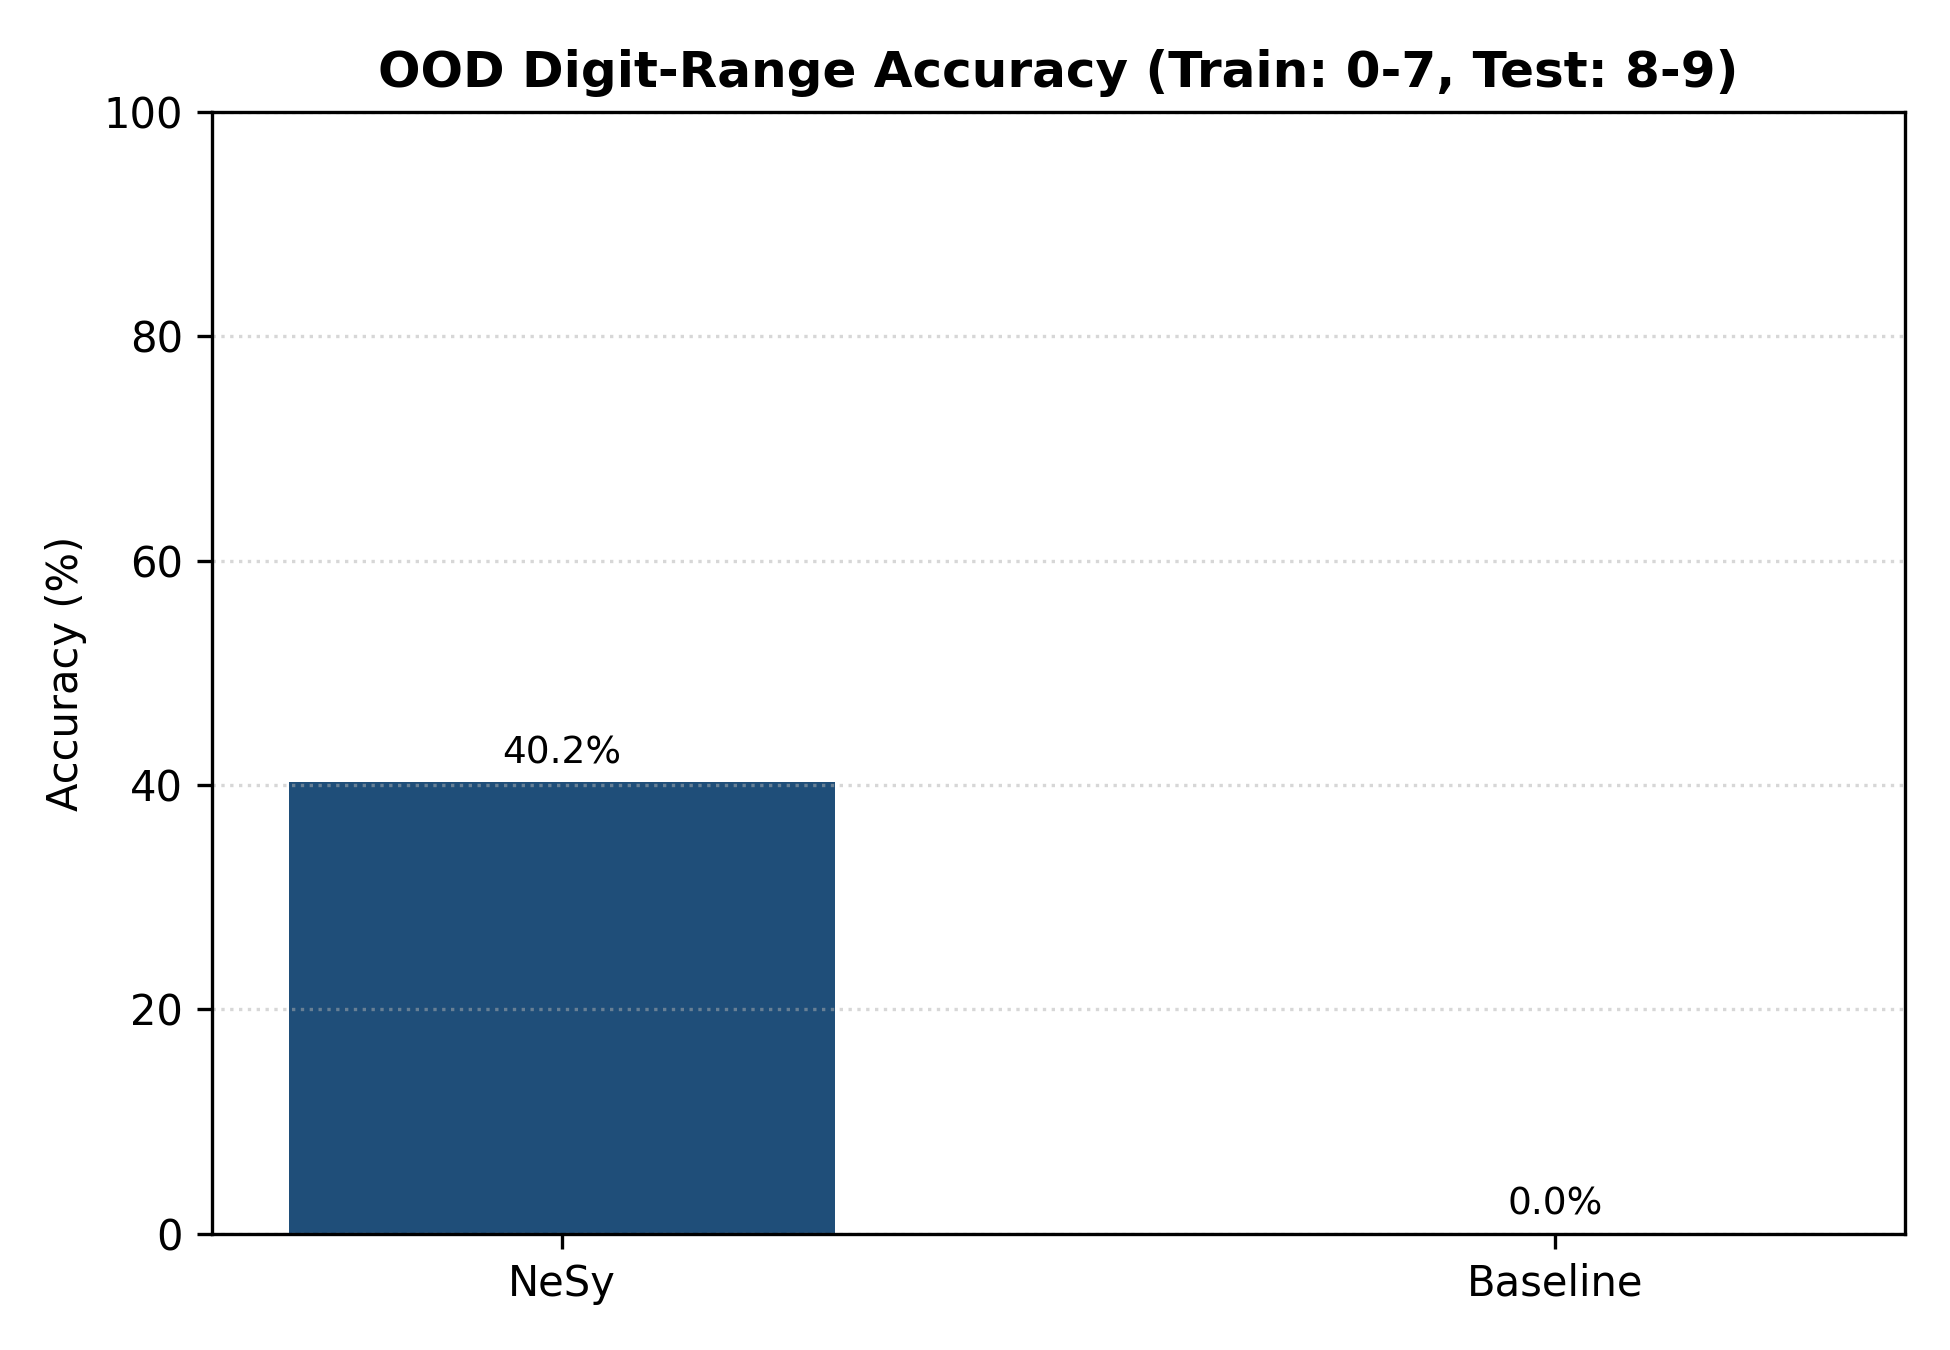
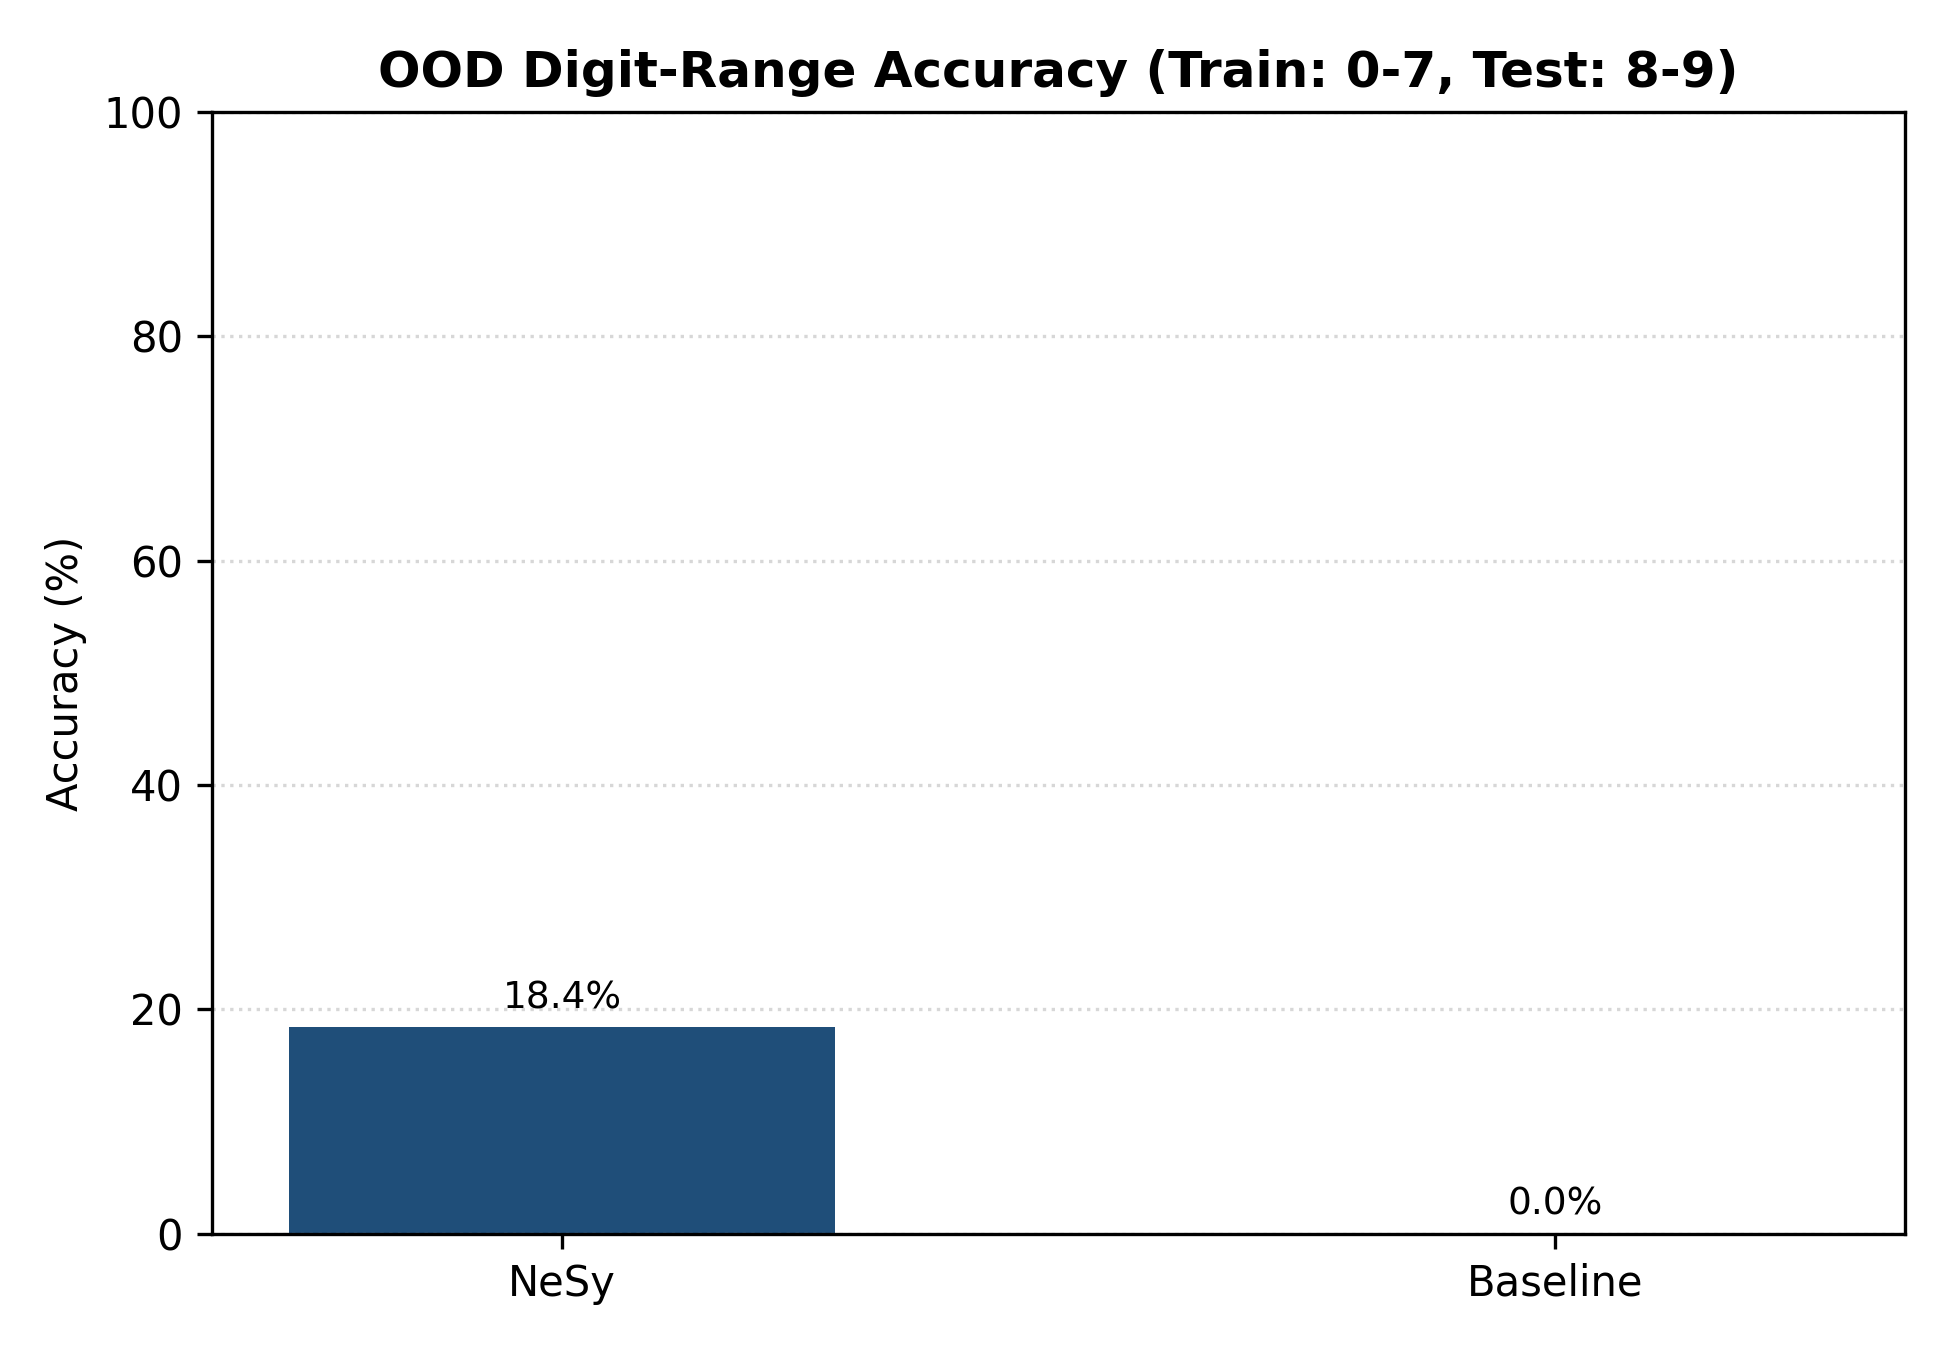
Document full run findings

Changed region(s): [[0.1231, 0.5289, 0.4308, 0.7778]]

diff --git a/FINDINGS.md b/FINDINGS.md
@@ -1,0 +1,46 @@
+# Findings from the MNIST Neuro-Symbolic Addition Project
+
+## Short abstract
+
+This project compares a neuro-symbolic digit-addition model against a dense end-to-end baseline on paired MNIST digits. The key idea is to keep the arithmetic rule fixed and learn only the perception step, then test how far that separation carries under standard evaluation, out-of-distribution digit ranges, and additive noise.
+
+## Experimental map
+
+1. Pre-train a small CNN to recognize single MNIST digits.
+2. Wrap that CNN in a symbolic sum layer that computes the distribution over sums from the two digit distributions.
+3. Train a dense baseline that predicts the sum directly from concatenated pixels.
+4. Evaluate both models on the standard split, on digit-range shift, and under Gaussian noise.
+
+## Full-run results
+
+These are the numbers from running `python nesy_addition.py` in this repository.
+
+| Experiment | Neuro-Symbolic | Baseline |
+| --- | ---: | ---: |
+| Standard test split | 98.05% | 72.80% |
+| OOD digit-range split | 18.40% | 0.00% |
+| Noise level 0.0 | 4.00% | 0.00% |
+| Noise level 0.3 | 2.55% | 0.00% |
+| Noise level 0.6 | 0.70% | 0.00% |
+| Noise level 0.9 | 0.20% | 0.00% |
+
+## What the results mean
+
+- The standard split shows that the neuro-symbolic path can solve the task cleanly when the digit recognizer is sufficiently trained.
+- The OOD split shows the baseline collapsing completely, which is consistent with a model that learns pixels-to-sum shortcuts rather than an arithmetic rule.
+- The noise experiment shows the bottleneck clearly: the symbolic layer is stable, but it cannot recover from a weak perception model.
+
+## Interpretation you can present to someone
+
+The strongest claim here is not that the neuro-symbolic system is magically immune to distribution shift. The defensible claim is narrower and better: once the perception module is good enough, the explicit sum rule gives a cleaner, more interpretable path than a pure neural baseline. The failure mode is equally useful, because it shows exactly where the system breaks when the input channel becomes unreliable.
+
+## Reproducibility
+
+- Main script: [nesy_addition.py](nesy_addition.py)
+- Quick smoke test: `python nesy_addition.py --quick`
+- Full run: `python nesy_addition.py`
+- Generated artifacts: `results/summary.json`, `results/ood_accuracy_chart.png`, `results/noise_robustness_chart.png`
+
+## Practical note
+
+The quick mode is useful for checking that the pipeline still works, but it is not the right run to cite in a paper or presentation. Use the full run if you want the most defensible results from this codebase.

diff --git a/README.md b/README.md
@@ -41,24 +41,31 @@ flowchart TD
 
 - [NeSy-Add.ipynb](NeSy-Add.ipynb): exploratory notebook with the original experiment.
 - [nesy_addition.py](nesy_addition.py): reproducible script version with CLI options.
+- [FINDINGS.md](FINDINGS.md): compact analysis of the real script outputs and what they mean.
 - [noise_robustness_chart.png](noise_robustness_chart.png): chart produced in the notebook.
 - [results/](results): output folder used by the script for generated figures and JSON summaries.
 - [data/](data): MNIST files downloaded locally. This folder is ignored by Git.
 
 ## Latest observed results
 
-The notebook in this workspace has already been executed. The current stored results are:
+The notebook in this workspace has already been executed, but the script in [nesy_addition.py](nesy_addition.py) is the canonical reproducible entry point. The current notebook snapshot and the full script run tell two slightly different stories, so both are documented here.
 
 | Experiment | Neuro-Symbolic | Baseline |
 | --- | ---: | ---: |
-| Standard test split | 96.95% | 79.10% |
-| OOD digit-range split | 29.80% | 0.00% |
-| Noise level 0.0 | 78.65% | 44.90% |
-| Noise level 0.3 | 75.05% | 42.05% |
-| Noise level 0.6 | 70.20% | 44.25% |
-| Noise level 0.9 | 64.25% | 41.05% |
+| Notebook snapshot: standard test split | 96.95% | 79.10% |
+| Notebook snapshot: OOD digit-range split | 29.80% | 0.00% |
+| Notebook snapshot: noise level 0.0 | 78.65% | 44.90% |
+| Notebook snapshot: noise level 0.3 | 75.05% | 42.05% |
+| Notebook snapshot: noise level 0.6 | 70.20% | 44.25% |
+| Notebook snapshot: noise level 0.9 | 64.25% | 41.05% |
+| Full script run: standard test split | 98.05% | 72.80% |
+| Full script run: OOD digit-range split | 18.40% | 0.00% |
+| Full script run: noise level 0.0 | 4.00% | 0.00% |
+| Full script run: noise level 0.3 | 2.55% | 0.00% |
+| Full script run: noise level 0.6 | 0.70% | 0.00% |
+| Full script run: noise level 0.9 | 0.20% | 0.00% |
 
-These numbers come from the notebook cells that are already saved in this workspace. The script will regenerate the same style of outputs when run with the same configuration and seed.
+The notebook numbers come from the cells already saved in this workspace. The full script numbers come from running `python nesy_addition.py` in this repository after the clean rewrite. The gap between the notebook snapshot and the full script is explained by the different training budget and the fact that the script retrains fresh models before each evaluation block.
 
 ## How to run
 
@@ -74,11 +81,15 @@ Run a fast smoke test:
 python nesy_addition.py --quick
 ```
 
+The quick mode is only for verifying the pipeline. It is intentionally shorter and should not be used as the headline result in a paper or demo.
+
 Run the full experiment:
 
 ```bash
 python nesy_addition.py
 ```
+
+The full experiment is the version to cite when you want the most defensible numbers.
 
 Useful overrides:
 
@@ -100,6 +111,13 @@ The script writes these files into `results/`:
 - The symbolic layer is explicit and small enough to describe in one paragraph.
 - The baseline is a plain dense classifier, so the comparison is easy to understand.
 - The README and charts separate the experiment story from the code.
+
+## Findings map
+
+- Standard MNIST addition is a sanity check: the neuro-symbolic path learns the arithmetic rule more cleanly than the dense baseline.
+- The OOD split is the strongest compositionality test in the repo: the baseline falls to zero, while the neuro-symbolic model still keeps partial accuracy because the addition rule itself is fixed.
+- The noise experiment isolates the perceptual bottleneck: once the digit recognizer is weak or undertrained, the symbolic layer cannot rescue the prediction.
+- The main lesson is that the symbolic rule removes arithmetic ambiguity, but it does not remove dependence on digit recognition quality.
 
 ## Notes
 